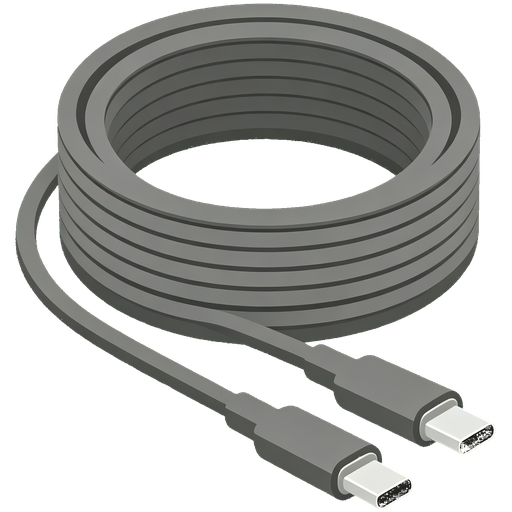
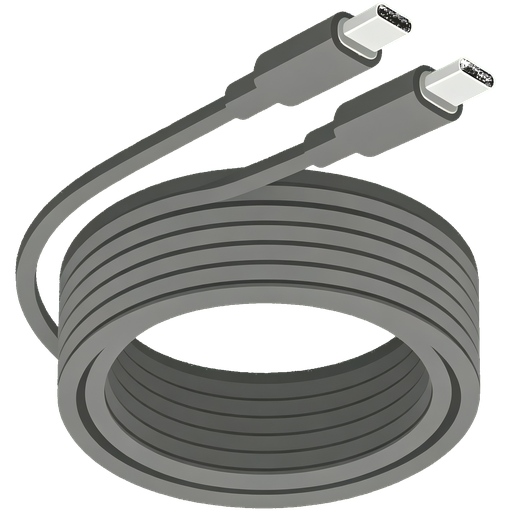
线缆素材旋转重处理，三个物品堆叠上限改为64

diff --git a/src/main/java/com/virtualredstonewire/registry/ModItems.java b/src/main/java/com/virtualredstonewire/registry/ModItems.java
@@ -18,13 +18,13 @@ public class ModItems
         DeferredRegister.create(ForgeRegistries.ITEMS, VirtualRedstoneWire.MOD_ID);
 
     public static final RegistryObject<Item> VIRTUAL_CABLE = ITEMS.register("virtual_cable",
-        () -> new VirtualCableItem(new Item.Properties().stacksTo(1)));
+        () -> new VirtualCableItem(new Item.Properties().stacksTo(64)));
 
     public static final RegistryObject<Item> CABLE_CUTTER = ITEMS.register("cable_cutter",
-        () -> new CableCutterItem(new Item.Properties().stacksTo(1)));
+        () -> new CableCutterItem(new Item.Properties().stacksTo(64)));
 
     public static final RegistryObject<Item> CABLE_MAGNIFIER = ITEMS.register("cable_magnifier",
-        () -> new CableMagnifierItem(new Item.Properties().stacksTo(1)));
+        () -> new CableMagnifierItem(new Item.Properties().stacksTo(64)));
 
     @Mod.EventBusSubscriber(modid = VirtualRedstoneWire.MOD_ID, bus = Mod.EventBusSubscriber.Bus.MOD)
     public static class TabRegistration
